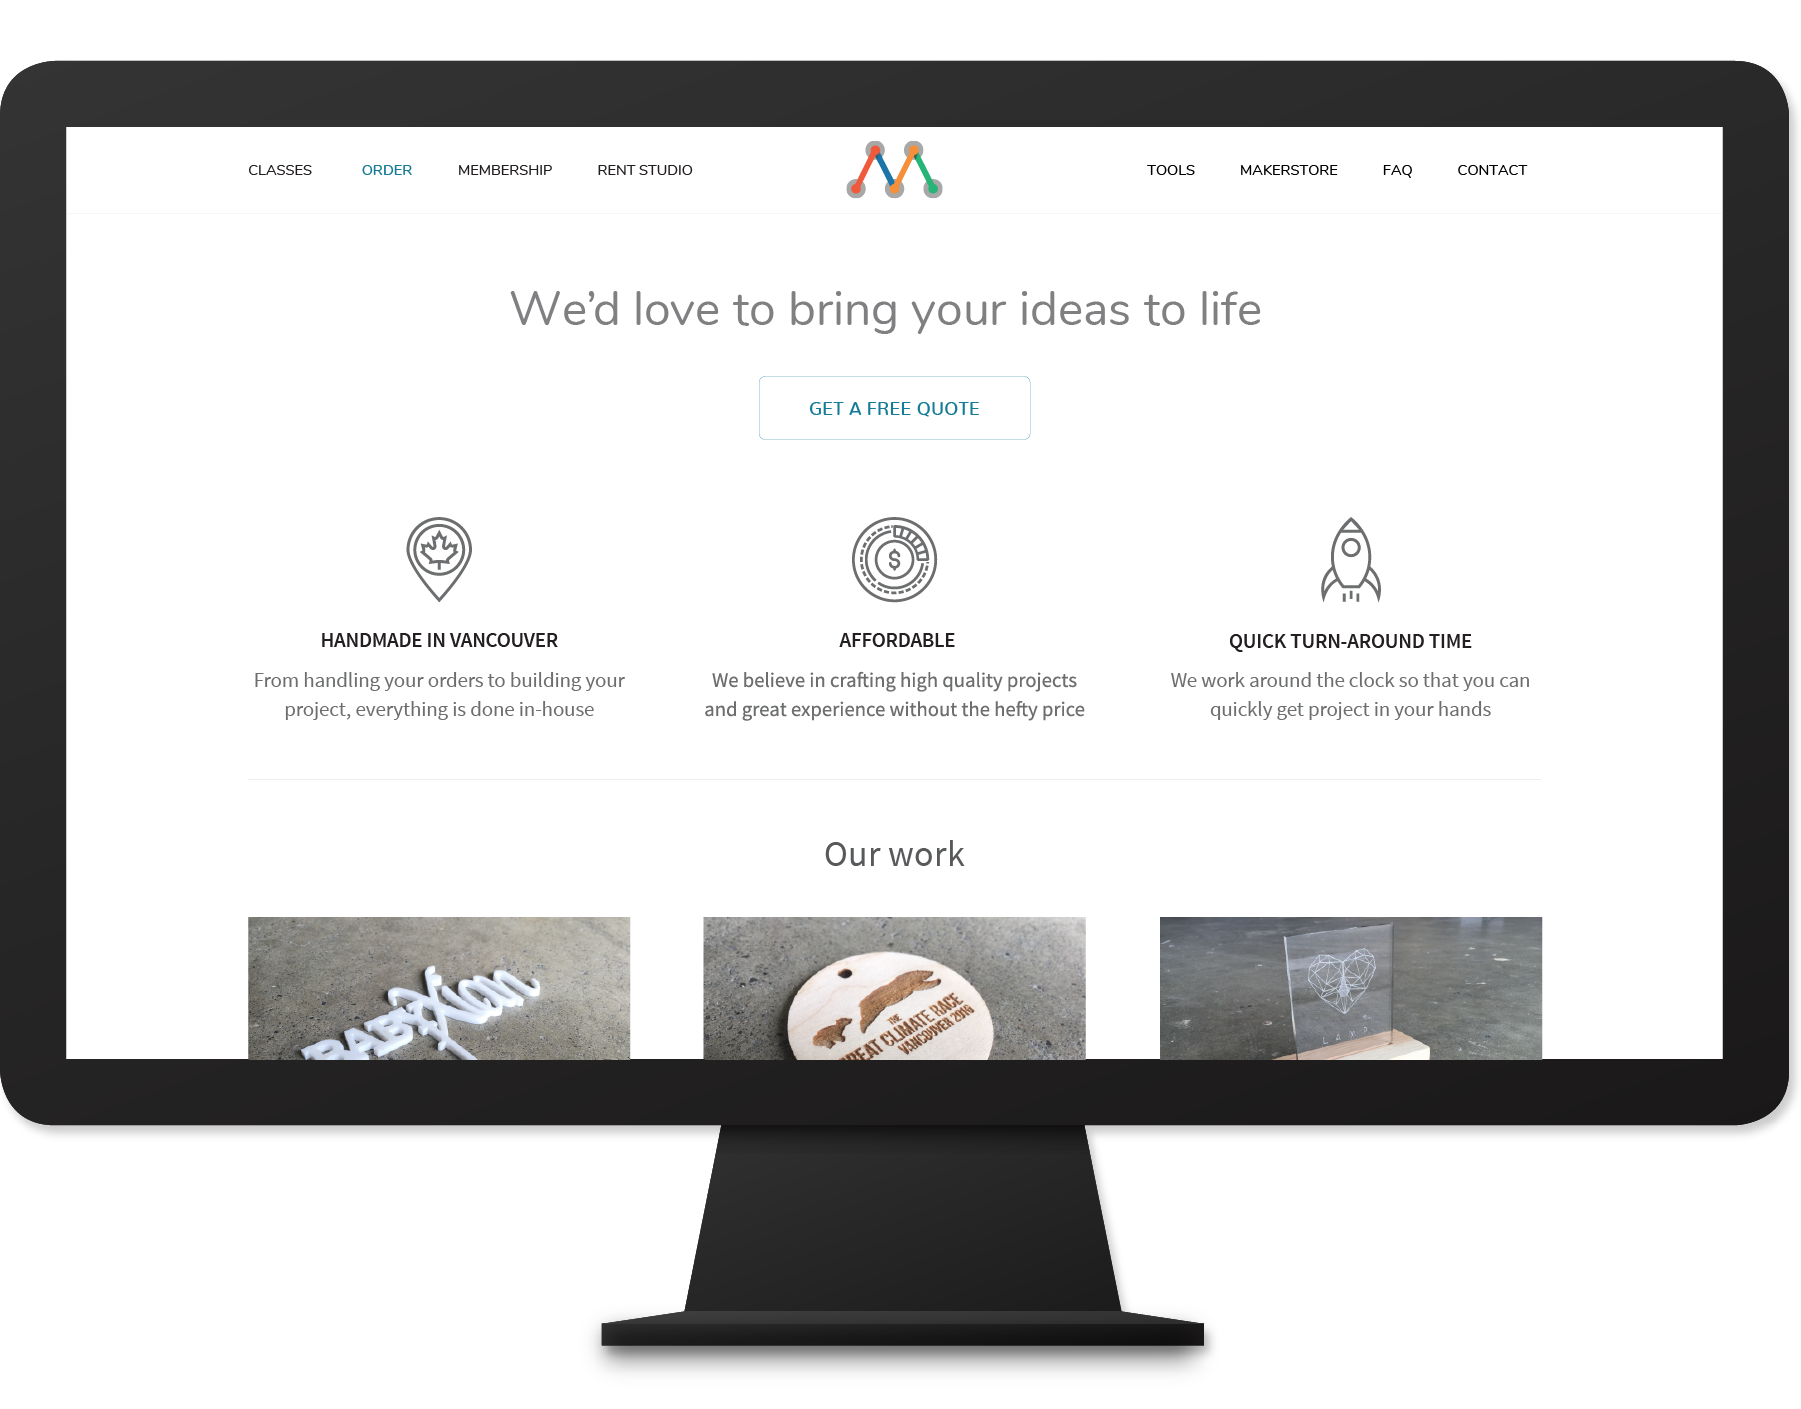
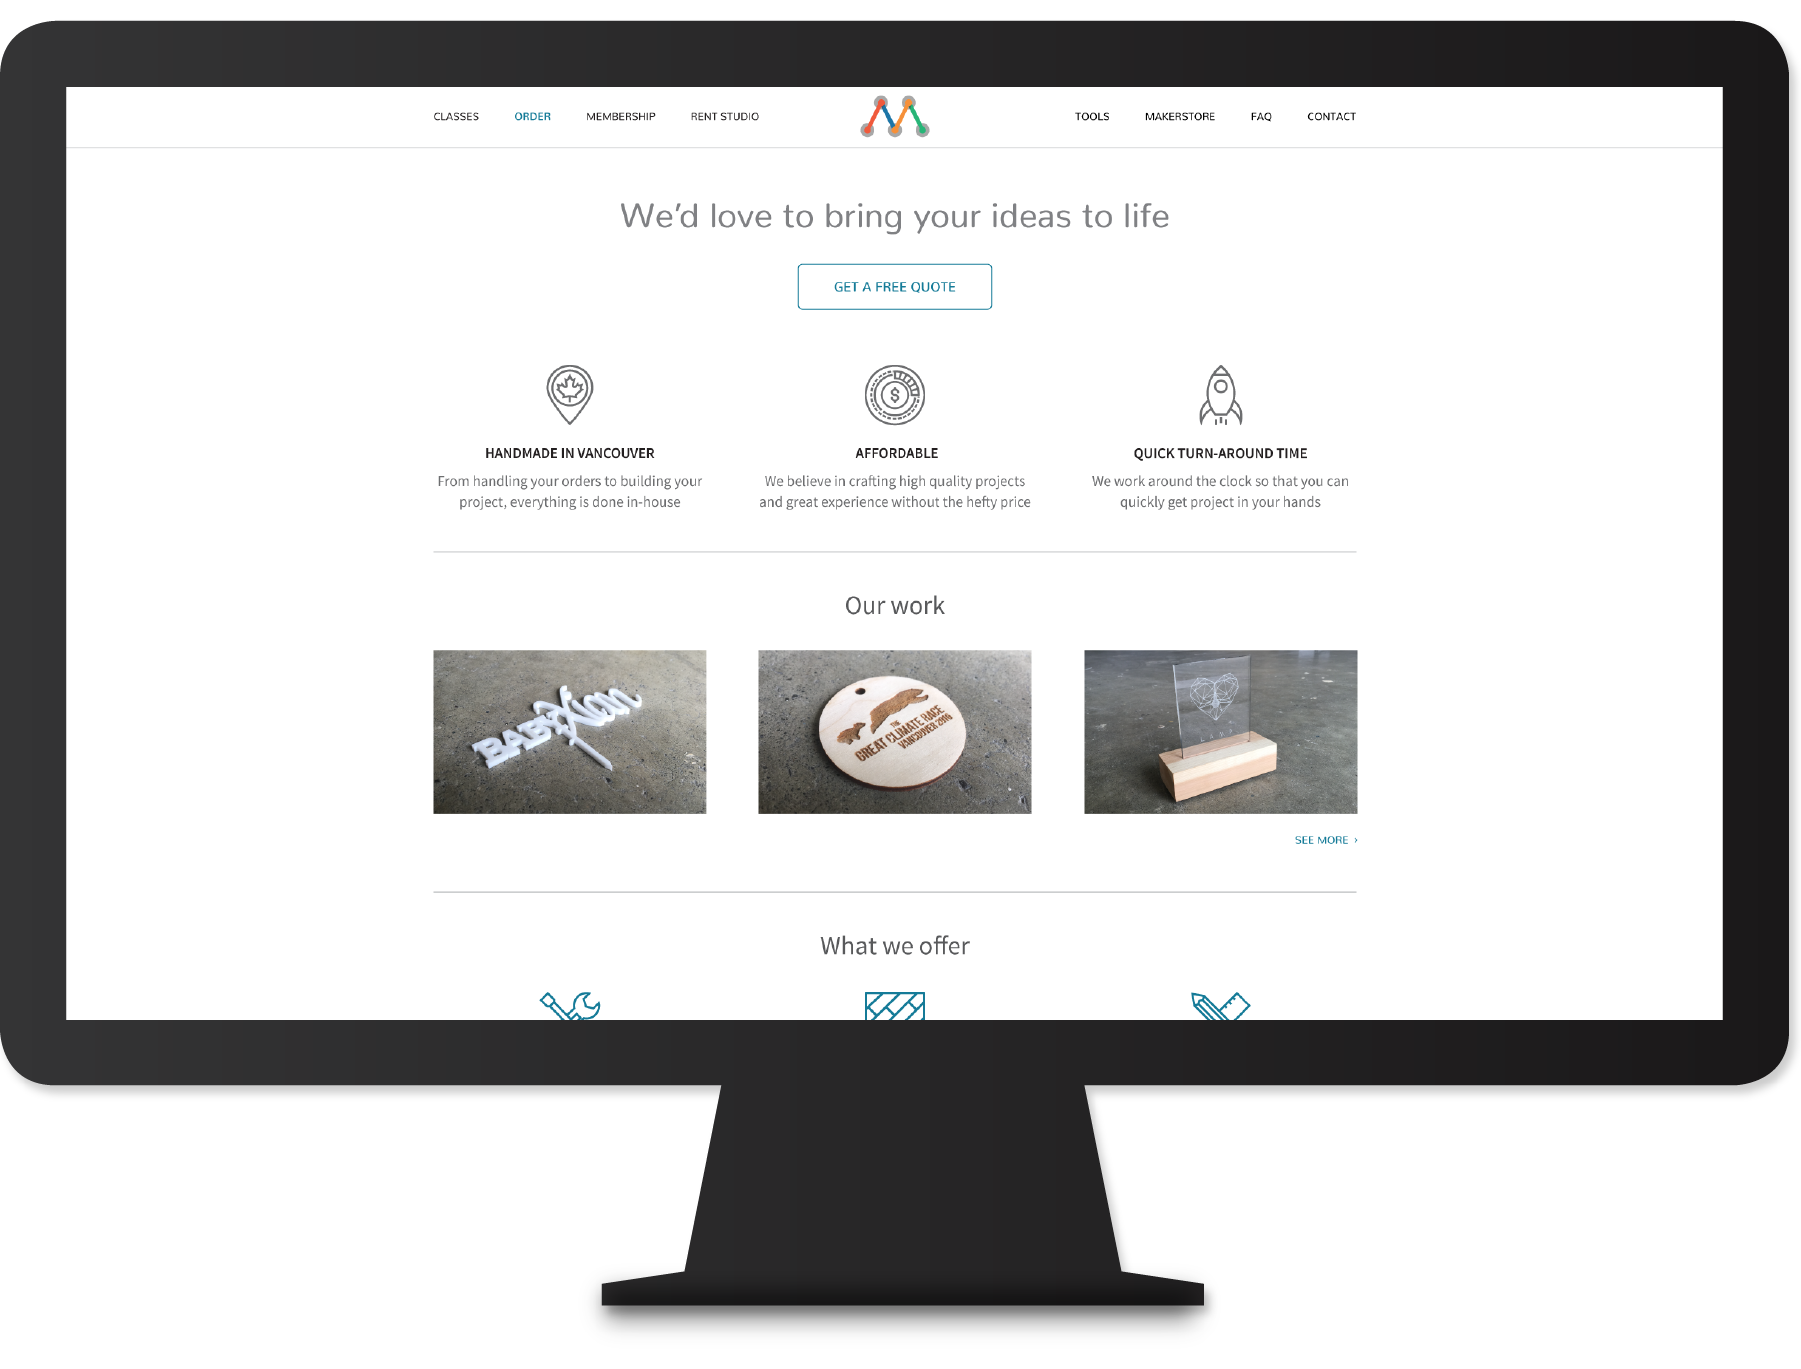
Updated project thunbnails

diff --git a/css/main.css b/css/main.css
@@ -255,7 +255,7 @@ h1 .highlight:after {
   width: 1em;
   display: block;
 }
-  
+
 .center{
   text-align: center;
 }
@@ -443,7 +443,7 @@ code {
   font-size: 0.8em;
   line-height: 1.6em;
 }
-  
+
 #project-detail .grid .center{
   text-align: center;
 }
@@ -850,7 +850,7 @@ p.social img {
   }
 
   .work-item > a {
-    margin-top:-2.5em;
+    margin-top:-2.8em;
   }
 
   /*-----------------------------------

diff --git a/index.php b/index.php
@@ -28,7 +28,7 @@
                 <div class="work-overview">
                   <h3><span class="subtext">Research & UX Design</span></h3>
                   <h2>MakerLabs</h2>
-                  <p class="description">Guismod nec nunc vel, ultrices cursus sapien. Vivamus molestie gravida lacus, id ullamcorper lorem volutpat eu.</p>
+                  <p class="description">A website redesign that highlights the core services of a Vancouver-based company.</p>
                   <p class="arrow"><img src="img/arrow-next.svg" onerror="this.src='img/arrow-next.png'" width="30" height="13"></p>
                 </div>
               </a>
